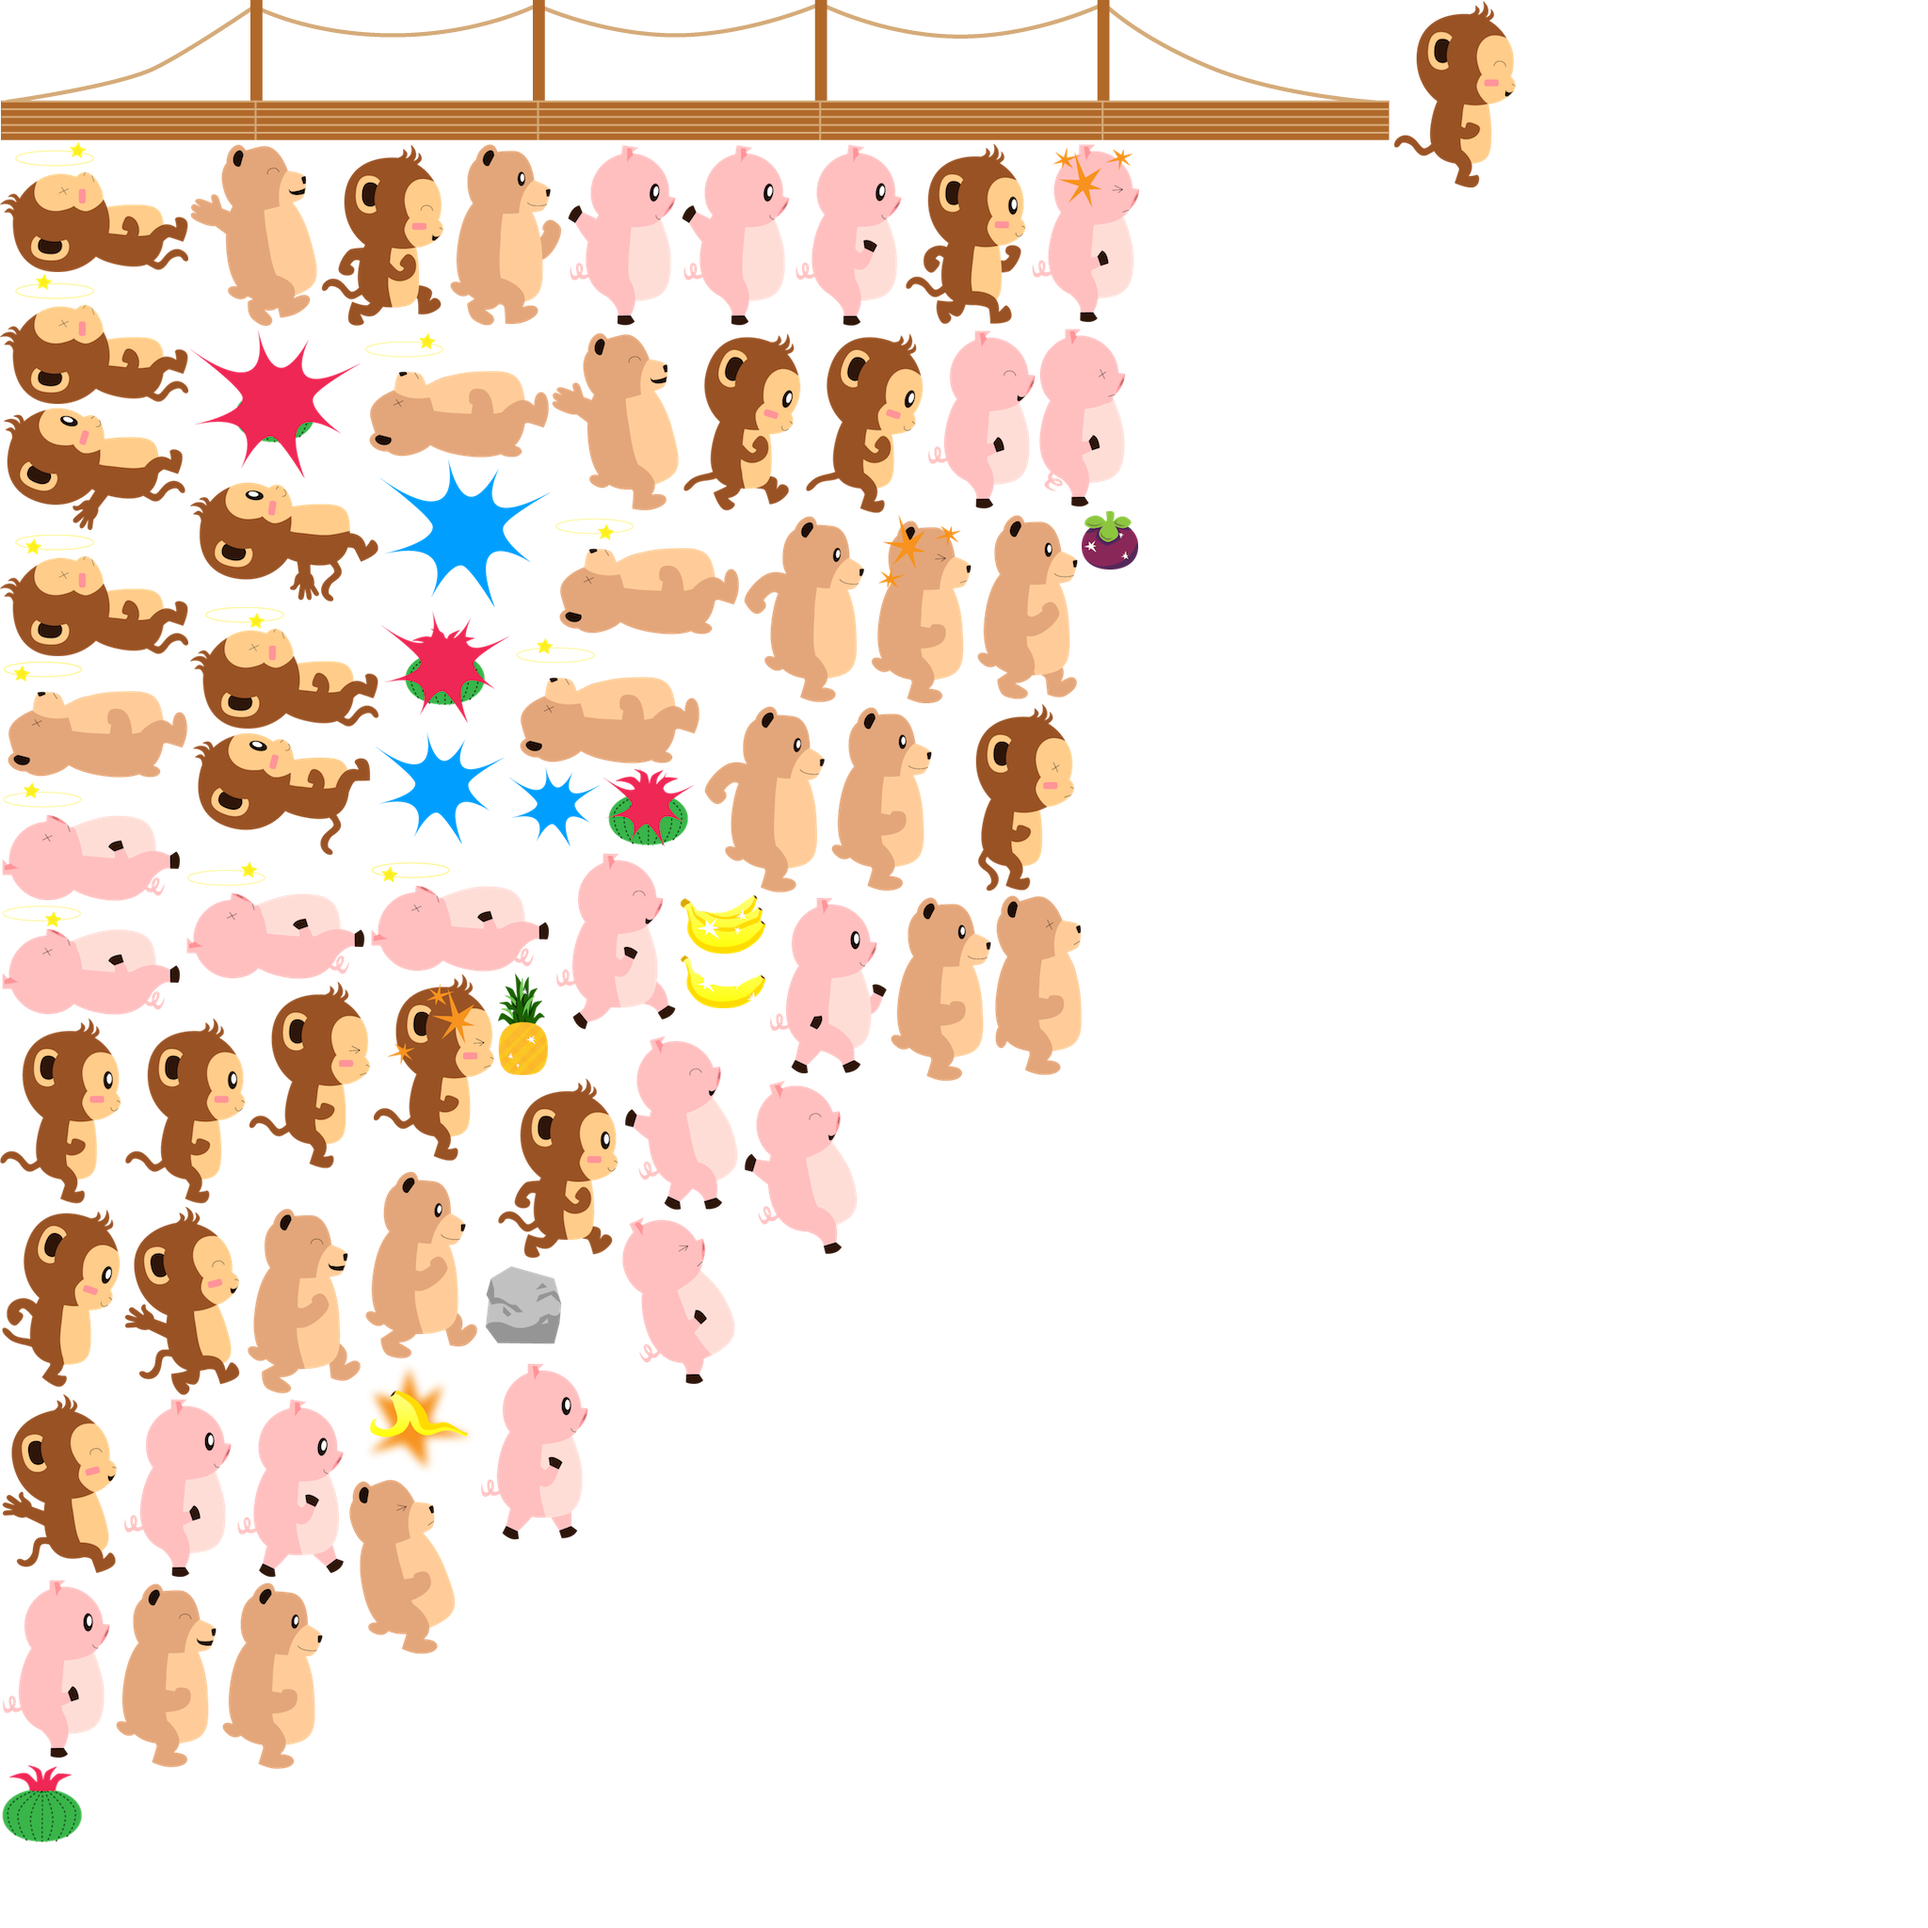
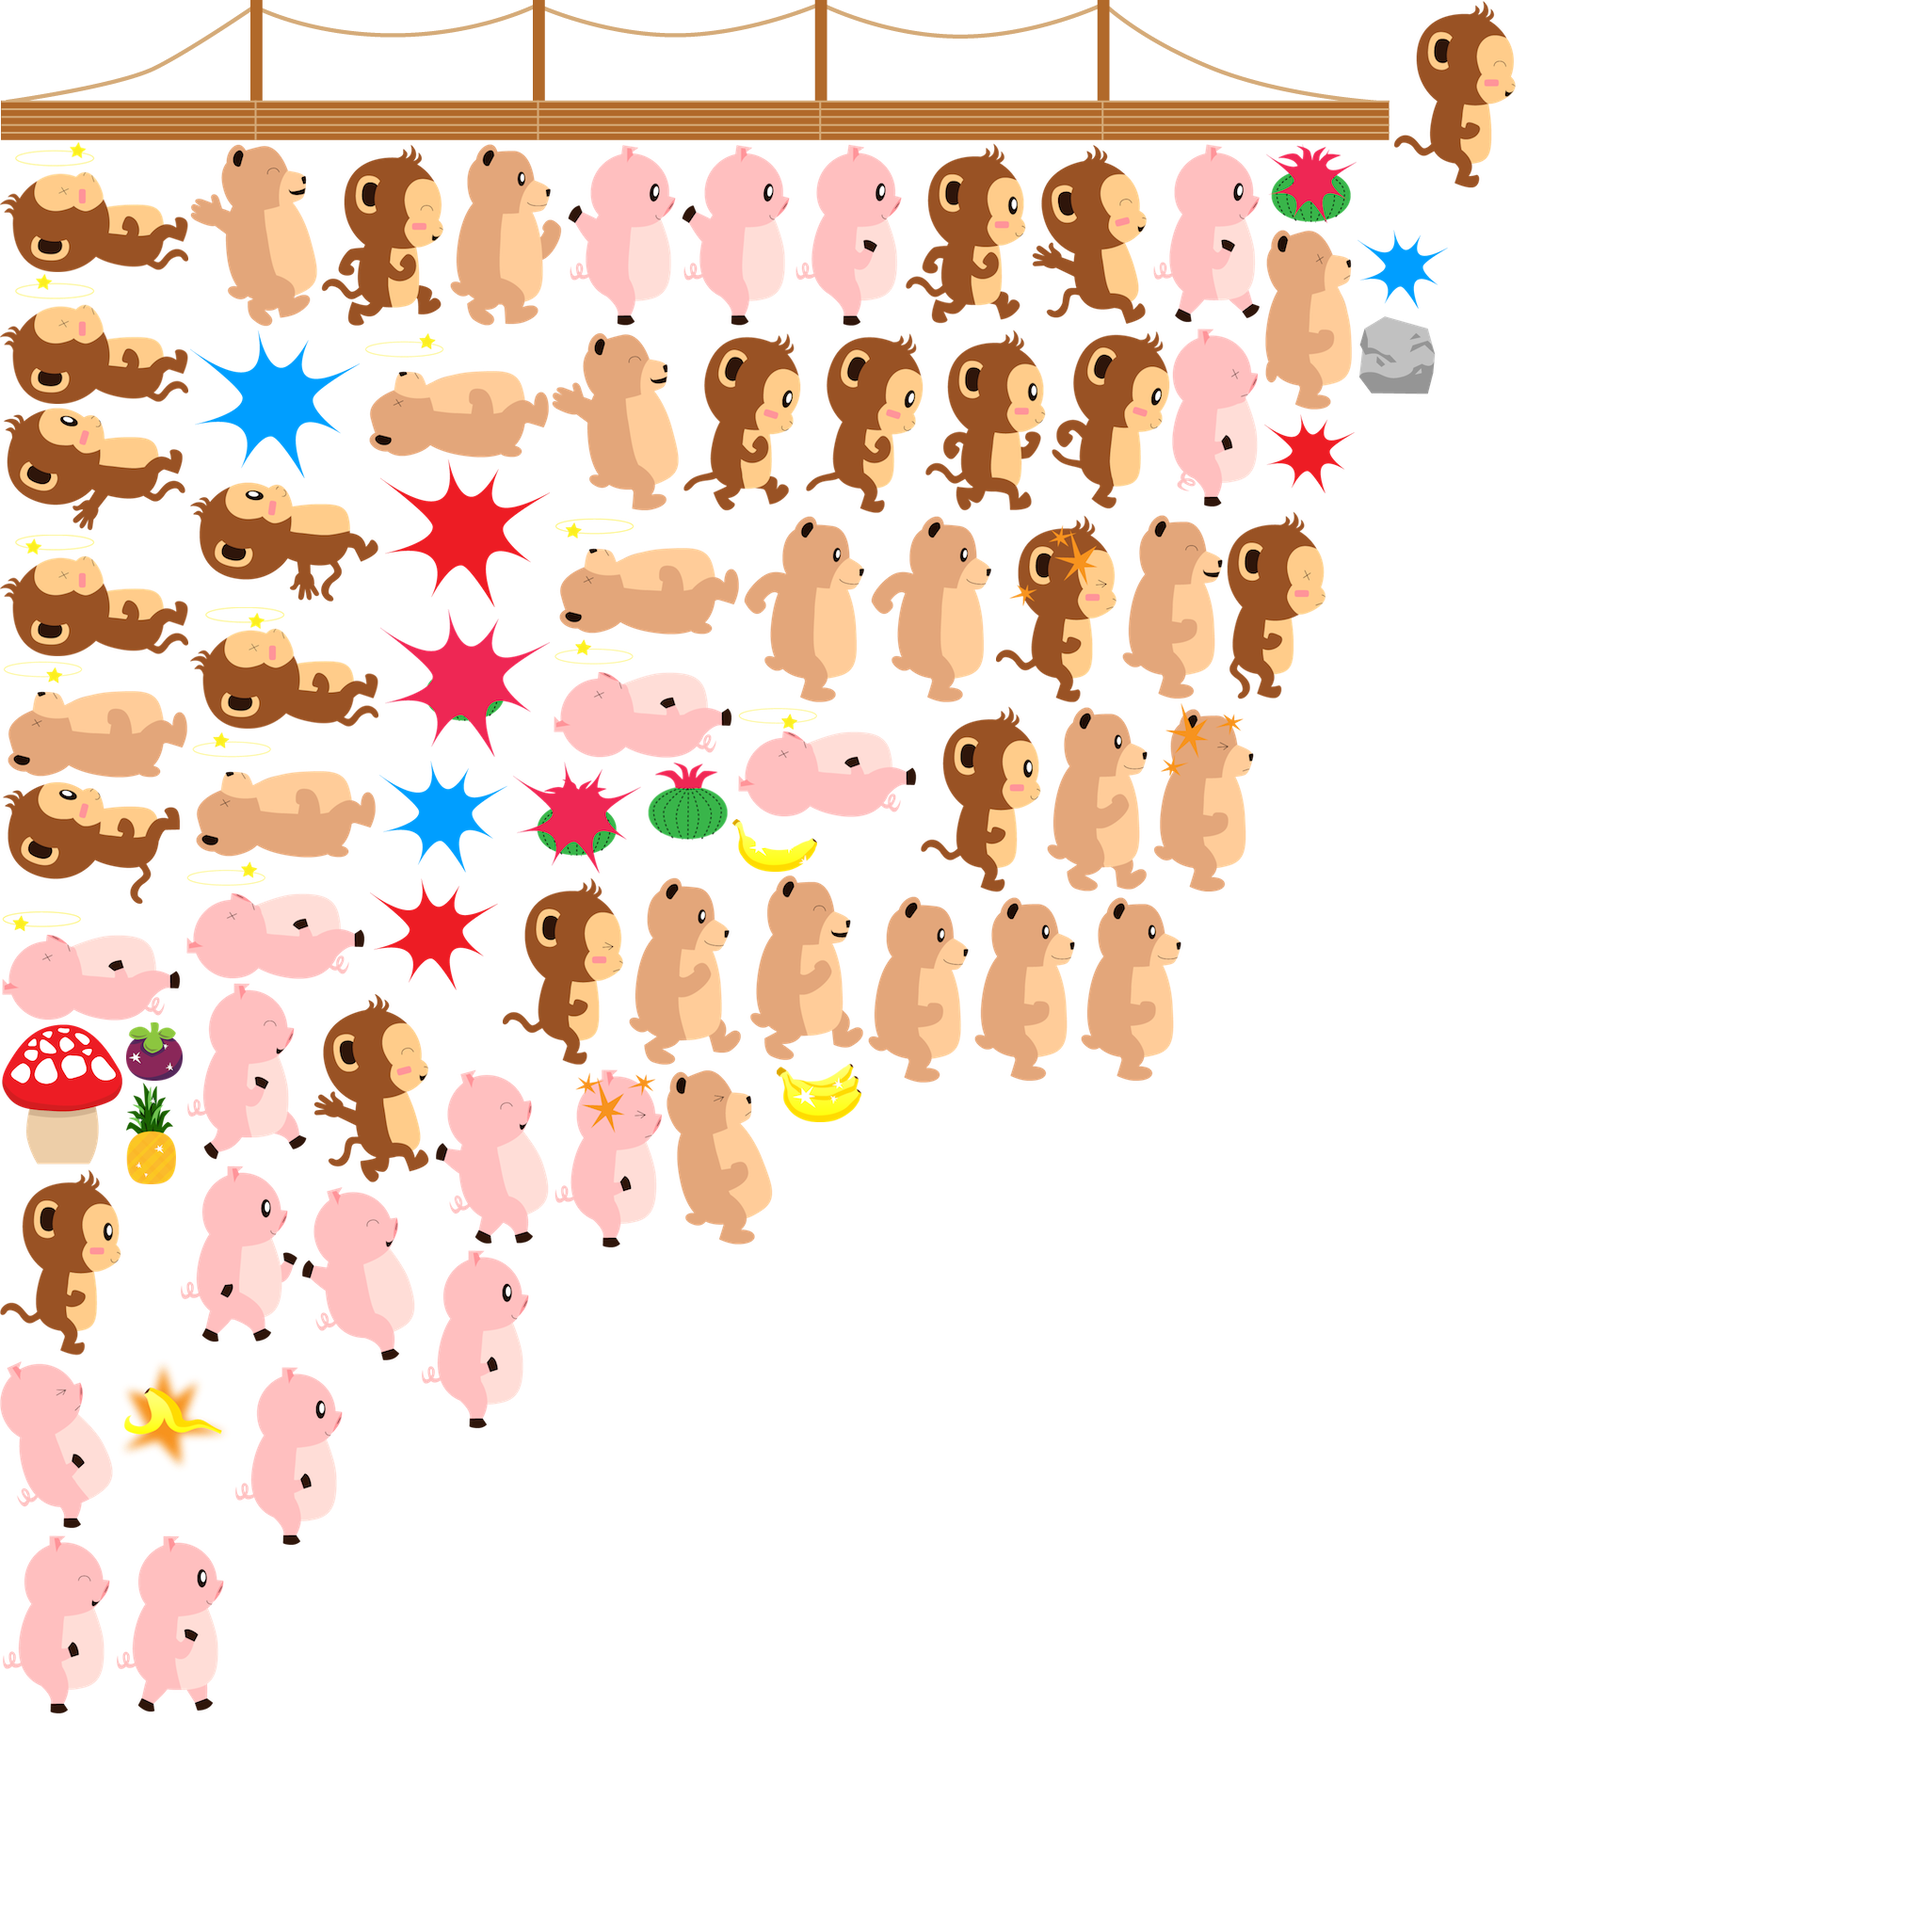
added fruits for different animals

Changed region(s): [[0.0, 0.0625, 0.75, 0.9688], [0.0938, 0.1875, 0.1875, 0.25]]

diff --git a/CollisionTest/CollisionTest/GameScene.mm b/CollisionTest/CollisionTest/GameScene.mm
@@ -199,24 +199,26 @@ TransitionObject *bridge;
     nextObject -= dt;
     if(nextObject <=0)
     {
+        // select a type of fruit
+        int fruit = [(NSNumber*)[MazeLayer selectDifficulty:[GameScene getRandomDouble] withDict:plushy.plushyFruit] intValue];
         if (p == 2) {
             //arc pattern TODO:hard coded for now
             int initalX = [[CCDirector sharedDirector] winSize].width;
             int initialY = [plushy ccNode].position.y+50;
             if (initialY+30 < 280) { //TODO: ensure that the bananas don't go over the scoring HUD.
-                Object *obj1 = [Object randomObject:BANANA_SINGLE];
+                Object *obj1 = [Object randomObject:fruit];
                 [obj1 setPhysicsPosition:b2Vec2FromCC(initalX, initialY)];
                 [obj1 setLinearVelocity:b2Vec2(-5, 0)];
                 [self addChild:[obj1 ccNode] z:38];
-                Object *obj2 = [Object randomObject:BANANA_SINGLE];
+                Object *obj2 = [Object randomObject:fruit];
                 [obj2 setPhysicsPosition:b2Vec2FromCC(initalX+30, initialY+30)];
                 [obj2 setLinearVelocity:b2Vec2(-5, 0)];
                 [self addChild:[obj2 ccNode] z:38];
-                Object *obj3 = [Object randomObject:BANANA_SINGLE];
+                Object *obj3 = [Object randomObject:fruit];
                 [obj3 setPhysicsPosition:b2Vec2FromCC(initalX+80, initialY+30)];
                 [obj3 setLinearVelocity:b2Vec2(-5, 0)];
                 [self addChild:[obj3 ccNode] z:38];
-                Object *obj4 = [Object randomObject:BANANA_SINGLE];
+                Object *obj4 = [Object randomObject:fruit];
                 [obj4 setPhysicsPosition:b2Vec2FromCC(initalX+110, initialY)];
                 [obj4 setLinearVelocity:b2Vec2(-5, 0)];
                 [self addChild:[obj4 ccNode] z:38];
@@ -227,19 +229,19 @@ TransitionObject *bridge;
             int initalX = [[CCDirector sharedDirector] winSize].width;
             int initialY = [plushy ccNode].position.y+80;
             if (initialY < 280) {
-                Object *obj1 = [Object randomObject:BANANA_SINGLE];
+                Object *obj1 = [Object randomObject:fruit];
                 [obj1 setPhysicsPosition:b2Vec2FromCC(initalX, initialY)];
                 [obj1 setLinearVelocity:b2Vec2(-5, 0)];
                 [self addChild:[obj1 ccNode] z:38];
-                Object *obj2 = [Object randomObject:BANANA_SINGLE];
+                Object *obj2 = [Object randomObject:fruit];
                 [obj2 setPhysicsPosition:b2Vec2FromCC(initalX+40, initialY)];
                 [obj2 setLinearVelocity:b2Vec2(-5, 0)];
                 [self addChild:[obj2 ccNode] z:38];
-                Object *obj3 = [Object randomObject:BANANA_SINGLE];
+                Object *obj3 = [Object randomObject:fruit];
                 [obj3 setPhysicsPosition:b2Vec2FromCC(initalX+80, initialY)];
                 [obj3 setLinearVelocity:b2Vec2(-5, 0)];
                 [self addChild:[obj3 ccNode] z:38];
-                Object *obj4 = [Object randomObject:BANANA_SINGLE];
+                Object *obj4 = [Object randomObject:fruit];
                 [obj4 setPhysicsPosition:b2Vec2FromCC(initalX+120, initialY)];
                 [obj4 setLinearVelocity:b2Vec2(-5, 0)];
                 [self addChild:[obj4 ccNode] z:38];

diff --git a/CollisionTest/CollisionTest/Object.mm b/CollisionTest/CollisionTest/Object.mm
@@ -26,6 +26,14 @@
         self = [super initWithDynamicBody:theObjName
                           spriteFrameName:[NSString stringWithFormat:@"%@ 1.png", theObjName]];
     }
+    else if([theObjName isEqualToString:@"rock bomb"]) {
+        self = [super initWithDynamicBody:@"cactus bomb"
+                          spriteFrameName:[NSString stringWithFormat:@"%@ 1.png", theObjName]];
+    }
+    else if([theObjName isEqualToString:@"mushroom bomb"]) {
+        self = [super initWithDynamicBody:@"cactus bomb"
+                          spriteFrameName:[NSString stringWithFormat:@"%@ 1.png", theObjName]];
+    }
     else{
         self = [super initWithKinematicBody:theObjName
                             spriteFrameName:[NSString stringWithFormat:@"%@.png", theObjName]];
@@ -47,17 +55,23 @@
             objName = @"banana bomb";
             break;
             
-        case BANANA_BUNCH:
-            objName = @"banana bunch";
+        case MUSHROOM_BOMB:
+            objName = @"mushroom bomb";
             break;
         case CACTUS_BOMB:
             objName = @"cactus bomb";
             break;
-        case SPIDER:
-            objName = @"spider";
+        case ROCK_BOMB:
+            objName = @"rock bomb";
             break;
         case BANANA_SINGLE:
             objName = @"banana single";
+            break;
+        case MANGOSTEEN:
+            objName = @"mangosteen";
+            break;
+        case PINEAPPLE:
+            objName = @"pineapple";
             break;
         default:
             break;
@@ -99,7 +113,7 @@
         }
         
         // running
-        frameName = [NSString stringWithFormat:@"cactus bomb %d.png", animPhase];
+        frameName = [objName stringByAppendingString:[NSString stringWithFormat:@" %d.png", animPhase]];
         [self setDisplayFrameNamed:frameName];
     }
     
@@ -118,11 +132,30 @@
             contacted = TRUE;
         }
     }
-    else
-    {
+    else if([fixtureId isEqualToString:@"banana"]) {
         if (!contacted) {
             [self playSound:BANANA_POINTS];
             ((Plushy*)[contact otherObject]).bananaScore += 1;
+            //[GameData sharedGameData].bananaCount += 1;
+            //[RunningGameScene addScore:10];
+            [[self ccNode] removeFromParentAndCleanup:YES];
+            contacted = TRUE;
+        }
+    }
+    else if([fixtureId isEqualToString:@"mangosteen"]) {
+        if (!contacted) {
+            [self playSound:BANANA_POINTS];
+            ((Plushy*)[contact otherObject]).mangosteenScore += 1;
+            //[GameData sharedGameData].bananaCount += 1;
+            //[RunningGameScene addScore:10];
+            [[self ccNode] removeFromParentAndCleanup:YES];
+            contacted = TRUE;
+        }
+    }
+    else if([fixtureId isEqualToString:@"pineapple"]) {
+        if (!contacted) {
+            [self playSound:BANANA_POINTS];
+            ((Plushy*)[contact otherObject]).pineappleScore += 1;
             //[GameData sharedGameData].bananaCount += 1;
             //[RunningGameScene addScore:10];
             [[self ccNode] removeFromParentAndCleanup:YES];

diff --git a/CollisionTest/CollisionTest/Plushy.mm b/CollisionTest/CollisionTest/Plushy.mm
@@ -38,7 +38,10 @@ const float kMinDistanceFromCenter = 100.0f;
 @synthesize loadmap;
 @synthesize tip;
 @synthesize bananaScore;
+@synthesize mangosteenScore;
+@synthesize pineappleScore;
 @synthesize onBridge;
+@synthesize plushyFruit;
 
 NSString* plushyName;
 
@@ -50,14 +53,20 @@ bool shapechange;
     switch ([GameData sharedGameData].plushy) {
         case 1:
             plushyName = @"Monkey";
+            plushyFruit = [[NSDictionary alloc] initWithObjectsAndKeys:
+            [NSNumber numberWithInt:BANANA_SINGLE], [NSNumber numberWithDouble:0.85], [NSNumber numberWithInt:MANGOSTEEN], [NSNumber numberWithDouble:0.08], [NSNumber numberWithInt:PINEAPPLE], [NSNumber numberWithDouble:0.07], nil];
             break;
             
         case 2:
             plushyName = @"Pig";
+            plushyFruit = [[NSDictionary alloc] initWithObjectsAndKeys:
+                           [NSNumber numberWithInt:MANGOSTEEN], [NSNumber numberWithDouble:0.85], [NSNumber numberWithInt:PINEAPPLE], [NSNumber numberWithDouble:0.08], [NSNumber numberWithInt:BANANA_SINGLE], [NSNumber numberWithDouble:0.07], nil];
             break;
             
         case 3:
             plushyName = @"Bear";
+            plushyFruit = [[NSDictionary alloc] initWithObjectsAndKeys:
+                           [NSNumber numberWithInt:PINEAPPLE], [NSNumber numberWithDouble:0.85], [NSNumber numberWithInt:BANANA_SINGLE], [NSNumber numberWithDouble:0.08], [NSNumber numberWithInt:MANGOSTEEN], [NSNumber numberWithDouble:0.07], nil];
             break;
             
         default:

diff --git a/CollisionTest/CollisionTest/MazeLayer.mm b/CollisionTest/CollisionTest/MazeLayer.mm
@@ -91,17 +91,17 @@ NSDictionary *difficultyDictionary;
     
     // Ensure that the first 4 maps are always easy
     if (mapCount < 6) {
-        levelInfo = [(NSValue*)[self selectDifficulty:[GameScene getRandomDouble] withDict:easyMapsDictionary] CGPointValue];
+        levelInfo = [(NSValue*)[MazeLayer selectDifficulty:[GameScene getRandomDouble] withDict:easyMapsDictionary] CGPointValue];
     }
     else{
-        NSDictionary *dict = (NSDictionary*)[self selectDifficulty:[GameScene getRandomDouble] withDict:difficultyDictionary];
-        levelInfo = [(NSValue*)[self selectDifficulty:[GameScene getRandomDouble] withDict:dict] CGPointValue];
+        NSDictionary *dict = (NSDictionary*)[MazeLayer selectDifficulty:[GameScene getRandomDouble] withDict:difficultyDictionary];
+        levelInfo = [(NSValue*)[MazeLayer selectDifficulty:[GameScene getRandomDouble] withDict:dict] CGPointValue];
     }
     
     return levelInfo;
 }
 
--(id)selectDifficulty:(double)rand withDict:(NSDictionary*)dict
++(id)selectDifficulty:(double)rand withDict:(NSDictionary*)dict
 {
     double counter = 0;
     for (NSNumber *key in dict) {

diff --git a/CollisionTest/CollisionTest/RunningGameScene.mm b/CollisionTest/CollisionTest/RunningGameScene.mm
@@ -252,12 +252,12 @@ bool isSwipable;
     currMazeLayer = [[[MazeLayer alloc] init] autorelease];
     [self addChild:currMazeLayer z:10];
     CGPoint levelInfo = [currMazeLayer levelChooser:mapCount];
-    if (ceil(levelInfo.x) == 0) {
-        // In case if the level is somehow off, it will default to level 1
-        levelInfo.x = 1;
-    }
-    [currMazeLayer loadMaze:ceil(levelInfo.x) withObject:ceil(levelInfo.y)];
-    //[currMazeLayer loadMaze:1 withObject:0];
+//    if (ceil(levelInfo.x) == 0) {
+//        // In case if the level is somehow off, it will default to level 1
+//        levelInfo.x = 1;
+//    }
+    //[currMazeLayer loadMaze:ceil(levelInfo.x) withObject:ceil(levelInfo.y)];
+    [currMazeLayer loadMaze:1 withObject:0];
     [currMazeLayer lineUpAround:[plushy ccNode].position];
 }
 

diff --git a/CollisionTest/CollisionTest/Plushy.h b/CollisionTest/CollisionTest/Plushy.h
@@ -29,9 +29,10 @@
     
     NSMutableArray *hearts;
     b2Vec2 initialPosition;
-   
+    
+    NSDictionary *plushyFruit;
 }
-
+@property (readonly) NSDictionary *plushyFruit;
 @property (readwrite) int pineappleScore;
 @property (readwrite) int mangosteenScore;
 @property (readwrite) int bananaScore;

diff --git a/CollisionTest/CollisionTest/Object.h b/CollisionTest/CollisionTest/Object.h
@@ -16,6 +16,10 @@
 #define CACTUS_BOMB 3
 #define BANANA_SINGLE 4
 #define BRIDGE 5
+#define MANGOSTEEN 6
+#define PINEAPPLE 7
+#define MUSHROOM_BOMB 8
+#define ROCK_BOMB 9
 
 #define BOMB_EXPLOSION 0
 #define BANANA_POINTS 1

diff --git a/CollisionTest/CollisionTest/MazeLayer.h b/CollisionTest/CollisionTest/MazeLayer.h
@@ -35,4 +35,5 @@
 -(void)destroyBridgeJoint;
 -(void) showBridge;
 +(void)initMapDictionaries;
++(id)selectDifficulty:(double)rand withDict:(NSDictionary*)dict;
 @end
